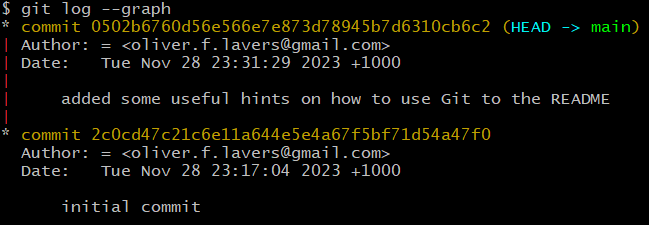
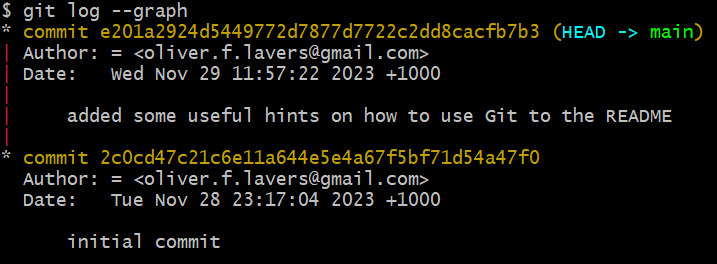
decided not to include revert in the in-class notes, because it could result in students needing to use Vim, and all the chaos that comes with that. Instead, we'll issue a second video on 'useful git techniques'

diff --git a/readme.md b/readme.md
@@ -53,11 +53,14 @@ Now enter this command:
 ls
 ```
 
-This will print the contents of your home directory on the screen. You should see a directory listed among them called `she_codes/`. If you don't see one, create it now with:
+This will print the contents of your home directory on the screen. You should see a directory listed among them called `she_codes/`. 
 
-```bash
-mkdir she_codes
-```
+> [!IMPORTANT]  
+> If you don't see one, you can create it now with:
+>
+> ```bash
+> mkdir she_codes
+> ```
 
 #### 1.1.3 - Navigate Into Your Classwork Directory
 Now that we're certain that your `she_codes` directory exists, navigate into it with this command:
@@ -74,26 +77,34 @@ mkdir git_and_github && cd $_
 ```
 
 > [!Note]  
-> `$_` is a little trick to let us avoid typing `git_and_github` twice. It is like saying "use that last value that I gave you again" to the shell.
+> `$_` is a little trick to let us avoid typing `git_and_github` twice. It is like saying "use that last value that I gave you again" to the shell. 
+> 
+> So this command says: "create a directory called `git_and_github`, and then immediately change directory into that same folder".
 
-Ok, we are now ready to begin! What we just did is a good way to begin any class where we work on a new project.
+Ok, we are now ready to begin! What we just did is a good way to begin any class where we work on a new project. Jump to your classword directory, and then make a new folder to hold the code for that project.
 
 ### 1.2 - Initialisation
 
-We are going to turn our `git_and_github/` directory into a "Git Repository". That's what we call a directory that is version controlled with Git. To do that, you can run the following command:
+We are going to turn our `git_and_github/` directory into a "Git Repository". That's what we call a directory that is version controlled with Git. 
+
+This is another good thing to do each time we start work on something new.
+
+To initialise the repo, you can run the following command:
 
 ```bash
 git init
 ```
 
-This "initialises" the folder as a Git repo. You can check that it worked by listing the contents of the folder with this command:
+This "initialises" the folder as a Git repo. 
+
+You can check that it worked by listing the contents of the current directory with this command:
 
 ```bash
 ls -A
 ```
 
 > [!NOTE]  
-> The `-a` there is a "flag". It adds optional extra functionality to the command. In this case, we are asking the shell to list ALL of the contents of the current directory, including hidden files and folders.
+> The `-A` there is a "flag". It adds optional extra functionality to the command. In this case, we are asking the shell to list ALL of the contents of the current directory, including hidden files and folders.
 
 Here's what you should see:
 
@@ -101,8 +112,30 @@ Here's what you should see:
 
 Hidden files and directories have names that begin with a dot. We can see that Git has created a hidden directory for us called `.git/`. This directory stores all the files that Git uses for keeping track of changes to our files. We don't need to open it right now - Git will handle it for us.
 
+> [!IMPORTANT]  
+> We **won't** be working *inside* the `.git/` directory. It is just there to let Git do its thing. We will be creating all of the files and folders we need inside the `git_and_github/` directory, and `.git/` will just sit there alongside them. Watching. Waiting. 👀👀👀
+
 > [!WARNING]  
-> Try to avoid a situation where one Git repo gets created *inside another one*. This can cause some very weird version control issues. In general, you want to have one folder per project, and avoid putting one project inside another.
+> Try to avoid a situation where one Git repo gets created *inside another one*. This can cause some very weird and confusing problems. 
+> 
+> In general, you want to keep all the files for each project inside one "umbrella" directory, and make that umbrella directory your git repo. When you start a new project, make a new umbrella directory for it, next to your other projects. Like this:
+>
+> ```
+> she_codes/
+> ├─ html_intro/
+> │  ├─ index.html
+> │  ├─ styles.css
+> |
+> ├─ git_and_github/        <--- This is a git repo!
+> │  ├─ README.md
+> │  ├─ .git/
+> |
+> ├─ profile_site_project/  <--- This is a git repo!
+> │  ├─ index.html
+> │  ├─ styles.css
+> │  ├─ README.md
+> │  ├─ .git/
+> ```
 
 ### 1.3 - The Initial Commit
 Git handles changes that we make to our files by storing them in "commits". Each commit represents a set of changes - a bit like a snapshot of our progress. 
@@ -115,6 +148,9 @@ Let's create a blank file to be in our initial commit. Run the following command
 ```bash
 touch README.md
 ```
+
+> [!INFO]  
+> The `touch` command creates a new file with the name supplied.
 
 Now open the current directory in VS Code like so:
 
@@ -191,7 +227,7 @@ Don't forget to save the file!
 > The code we have added is in a language called "Markdown". It's quite extremely useful, and we will see it again in this course. Luckily, Markdown is so close to normal English that we don't need to be familiar with it to understand what's being said here.
 
 #### 1.4.1 - Check The Status Again
-Let's check the status again!
+Let's check the status again! 
 
 ```bash
 git status
@@ -230,7 +266,7 @@ git commit -m "added some useful hints on how to use Git to the README"
 ### 1.5 - Taking Stock
 Let's just take a look at what we've done so far. In the pre-work video entitled "What Is Git", you were shown a graph that looked like this, depicting some commits:
 
-![Three commits represented as a graph.](./img/video_files/6_graph_representation.drawio.png)
+![Three commits represented as a graph.](./img/what_is_git_video/7_graph_head.drawio.png)
 
 We can't get quite such a pretty representation in the terminal, but we can get close. Try running this command:
 
@@ -242,6 +278,11 @@ Here's what I see:
 
 ![The Git graph, represented in the command line. Two commits are represented by asterisks, tagged with details describing them, and linked by a dotted line.](./img/git_log.png)
 
-This is pretty much what we had above - it has just been rotated by 90 degrees, and rendered as text-art. The initial commit is at the bottom, and our second commit is above it. Each commit is represented by an asterisk. Can you see the similarity?
+This is pretty much what we had above - it has just been rotated by 90 degrees, and rendered as text-art. The initial commit is at the bottom, and our second commit is above it. Each commit is represented by an asterisk. 
+
+Of course, the working tree isn't represented in our command line graph. But the working tree is just "the current state of our code", and we can see that by looking at the files in VS Code!
 
 Not bad!
+
+> [!NOTE]  
+> In the "What Is Git" video, we mentioned that Git can be used to revert a previous mistake. We won't be demonstrating that here, because we don't want to get bogged down. If you'd like to see a demo of that (plus some other helpful techniques), [take a look at our video on useful Git techniques]().
